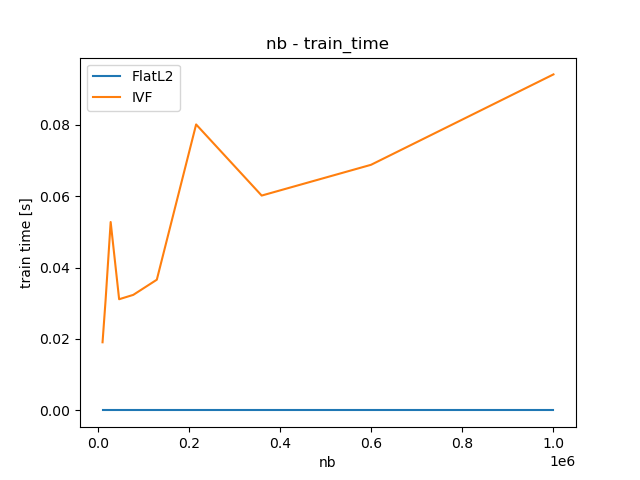
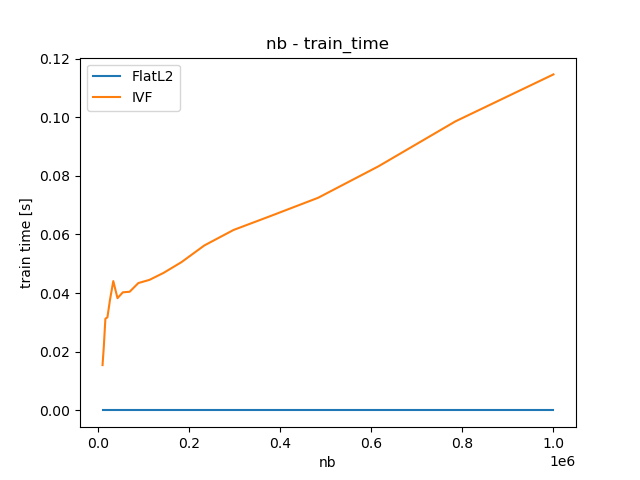
何回か同じことをして平均を取るようにした。

diff --git a/compare.py b/compare.py
@@ -12,7 +12,7 @@ def main():
   ivf = IVF(k = k, nlist = 100, nprobe = 3)
   models = [flatL2, ivf]
   
-  nb_list = np.logspace(4, 6, 10).astype("int")
+  nb_list = np.logspace(4, 6, 20).astype("int")
   nq_list = [1000]
   d_list = [64]
   n_trial = 5
@@ -33,10 +33,11 @@ def main():
             time_search_list[n_try][idx].append(time_search)
   
   # 描画
+  time_train_list = np.mean(np.array(time_train_list), axis=(0))
+  time_search_list = np.mean(np.array(time_search_list), axis=(0))
   plt.figure()
   for idx, model in enumerate(models):
     plt.plot(nb_list, time_train_list[idx], label=model.name)
-    ## ここからスタート　挑戦回数の平均を取る
   plt.xlabel("nb")
   plt.ylabel("train time [s]")
   plt.title("nb - train_time")
